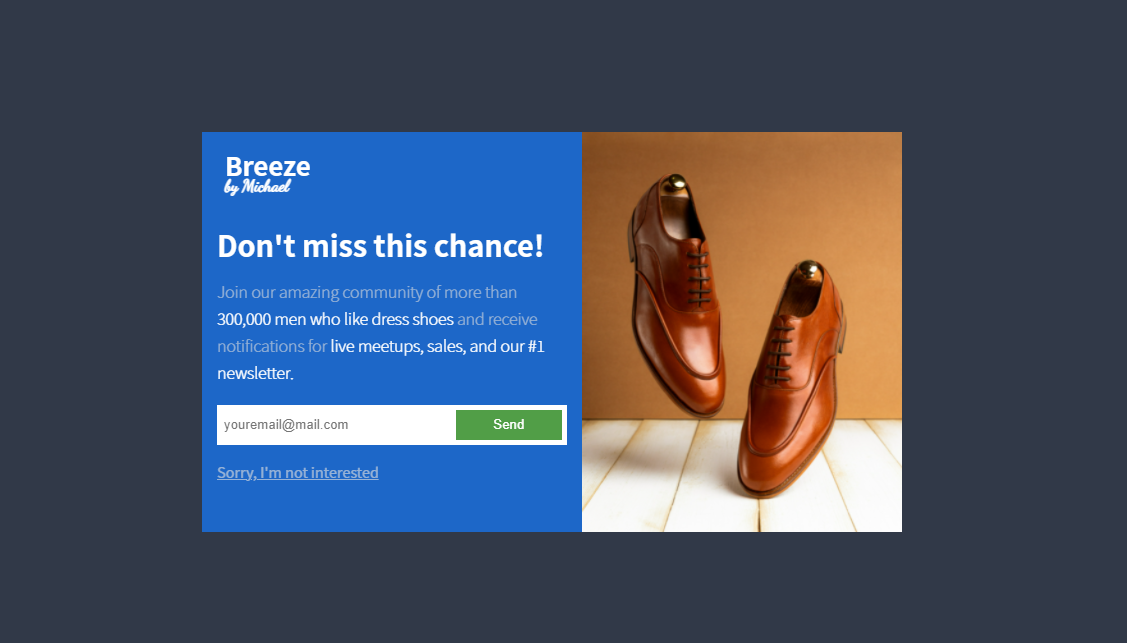
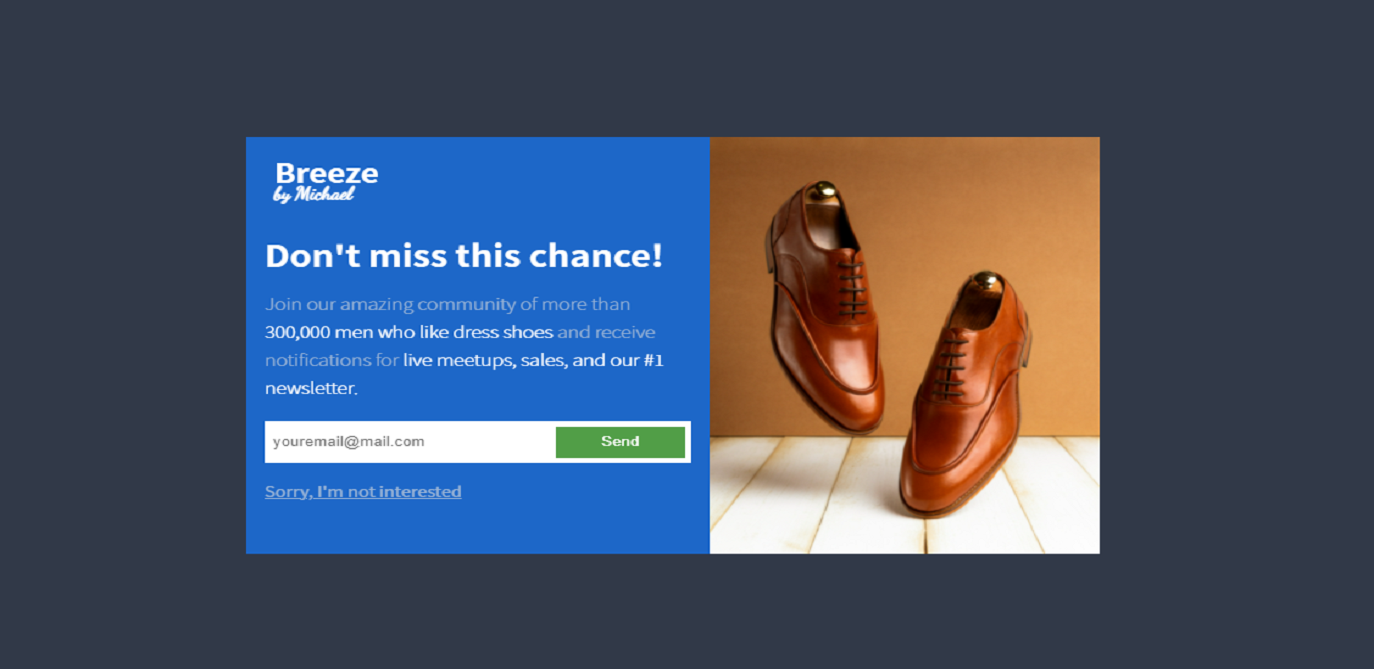
Add files via upload

diff --git a/project.html b/project.html
@@ -61,7 +61,7 @@
           </div>
             
           <div class="col-xs-6">
-            <h3>Pop Up Window Ad</h3>
+            <h3>Pop Up Window</h3>
             <a href="https://qmkduran.github.io/Pop-Up-Offer/" target="_blank">
               <img src="./assets/images/img-03.png" alt="" class="img-responsive reveal-content solo" data-action="zoom">
             </a>

diff --git a/styles.css b/styles.css
@@ -72,11 +72,6 @@
 .follow {
   margin-left: 60em;
 }
-.solo {
-  height: 9.7em;
-  width: 20em;
-}
-
 
 @media (max-width: 400px){
   .skillsone {
